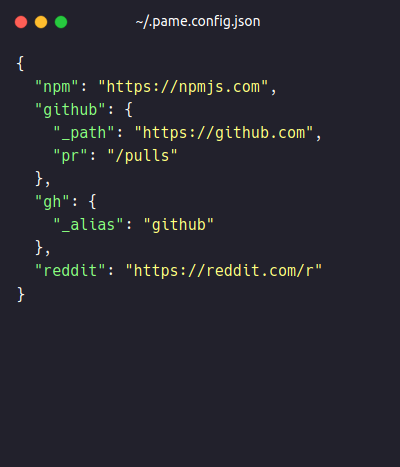
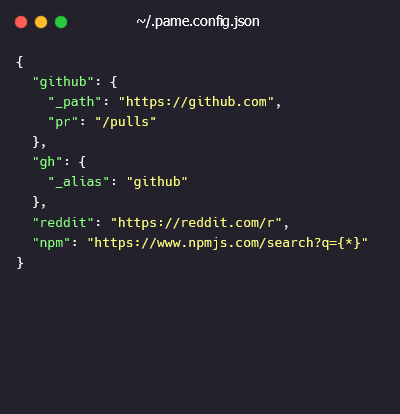
update readme

diff --git a/README.md b/README.md
@@ -3,6 +3,7 @@
 [![version](https://img.shields.io/npm/v/pame?style=flat)](https://www.npmjs.com/package/pame)
 [![license](https://img.shields.io/npm/l/pame)](https://github.com/stsourlidakis/pame/blob/master/LICENSE)
 [![codecov](https://codecov.io/gh/stsourlidakis/pame/branch/master/graph/badge.svg)](https://codecov.io/gh/stsourlidakis/pame)
+[![changelog](https://shields.io/badge/-Changelog-informational)](CHANGELOG.md)
 
 **Construct** and **open** links in your **browser** from the comfort of your terminal.
 
@@ -35,7 +36,6 @@ You can create a JSON config with pages you want to open with `pame`.
 ```json
 // ~/.pame.config.json
 {
-	"npm": "https://npmjs.com",
 	"github": {
 		"_path": "https://github.com",
 		"pr": "/pulls"
@@ -43,14 +43,12 @@ You can create a JSON config with pages you want to open with `pame`.
 	"gh": {
 		"_alias": "github"
 	},
-	"reddit": "https://reddit.com/r"
+	"reddit": "https://reddit.com/r",
+	"npm": "https://www.npmjs.com/search?q={*}"
 }
 ```
 
 ```sh
-pame npm
-# Opens https://npmjs.com
-
 pame github
 # Opens https://github.com
 
@@ -65,9 +63,22 @@ pame gh pr
 
 pame reddit /news
 # Opens https://reddit.com/r/news
+
+pame npm testing
+# Opens https://www.npmjs.com/search?q=testing
 ```
 
 </details>
+
+## Main features ✨
+
+- [Sub-pages](#url-nesting)
+- [Query params placeholders](#query-params-placeholders)
+- [Typo tolerance](#typo-tolerance)
+- [Dynamic sub-pages](#dynamic-sub-paths)
+- [Flexible query string](#query-string)
+- [Aliases](#aliases)
+- [Extension of existing pages](#extending-configurations)
 
 ## Configuration
 
@@ -190,7 +201,7 @@ pame translate
 # Opens https://translate.google.com/?sl=en&tl=el
 ```
 
-### Aliases (`_alias`)
+### Aliases
 
 You can create **same level** aliases by using `_alias`, nested paths and other features will still work!
 
@@ -245,7 +256,7 @@ pame gh p
 # Opens https://github.com/pulls
 ```
 
-### Extending configurations (`_extend`)
+### Extending configurations
 
 Url configs can inherit sub-pages with `_extend`.
 
@@ -315,7 +326,7 @@ pame github foo pr
 # Opens https://github.com/pulls
 ```
 
-### Dynamic sub-path (`/page`)
+### Dynamic sub-paths
 
 You can append to the end of your url by starting an argument with a slash (`/`)
 
